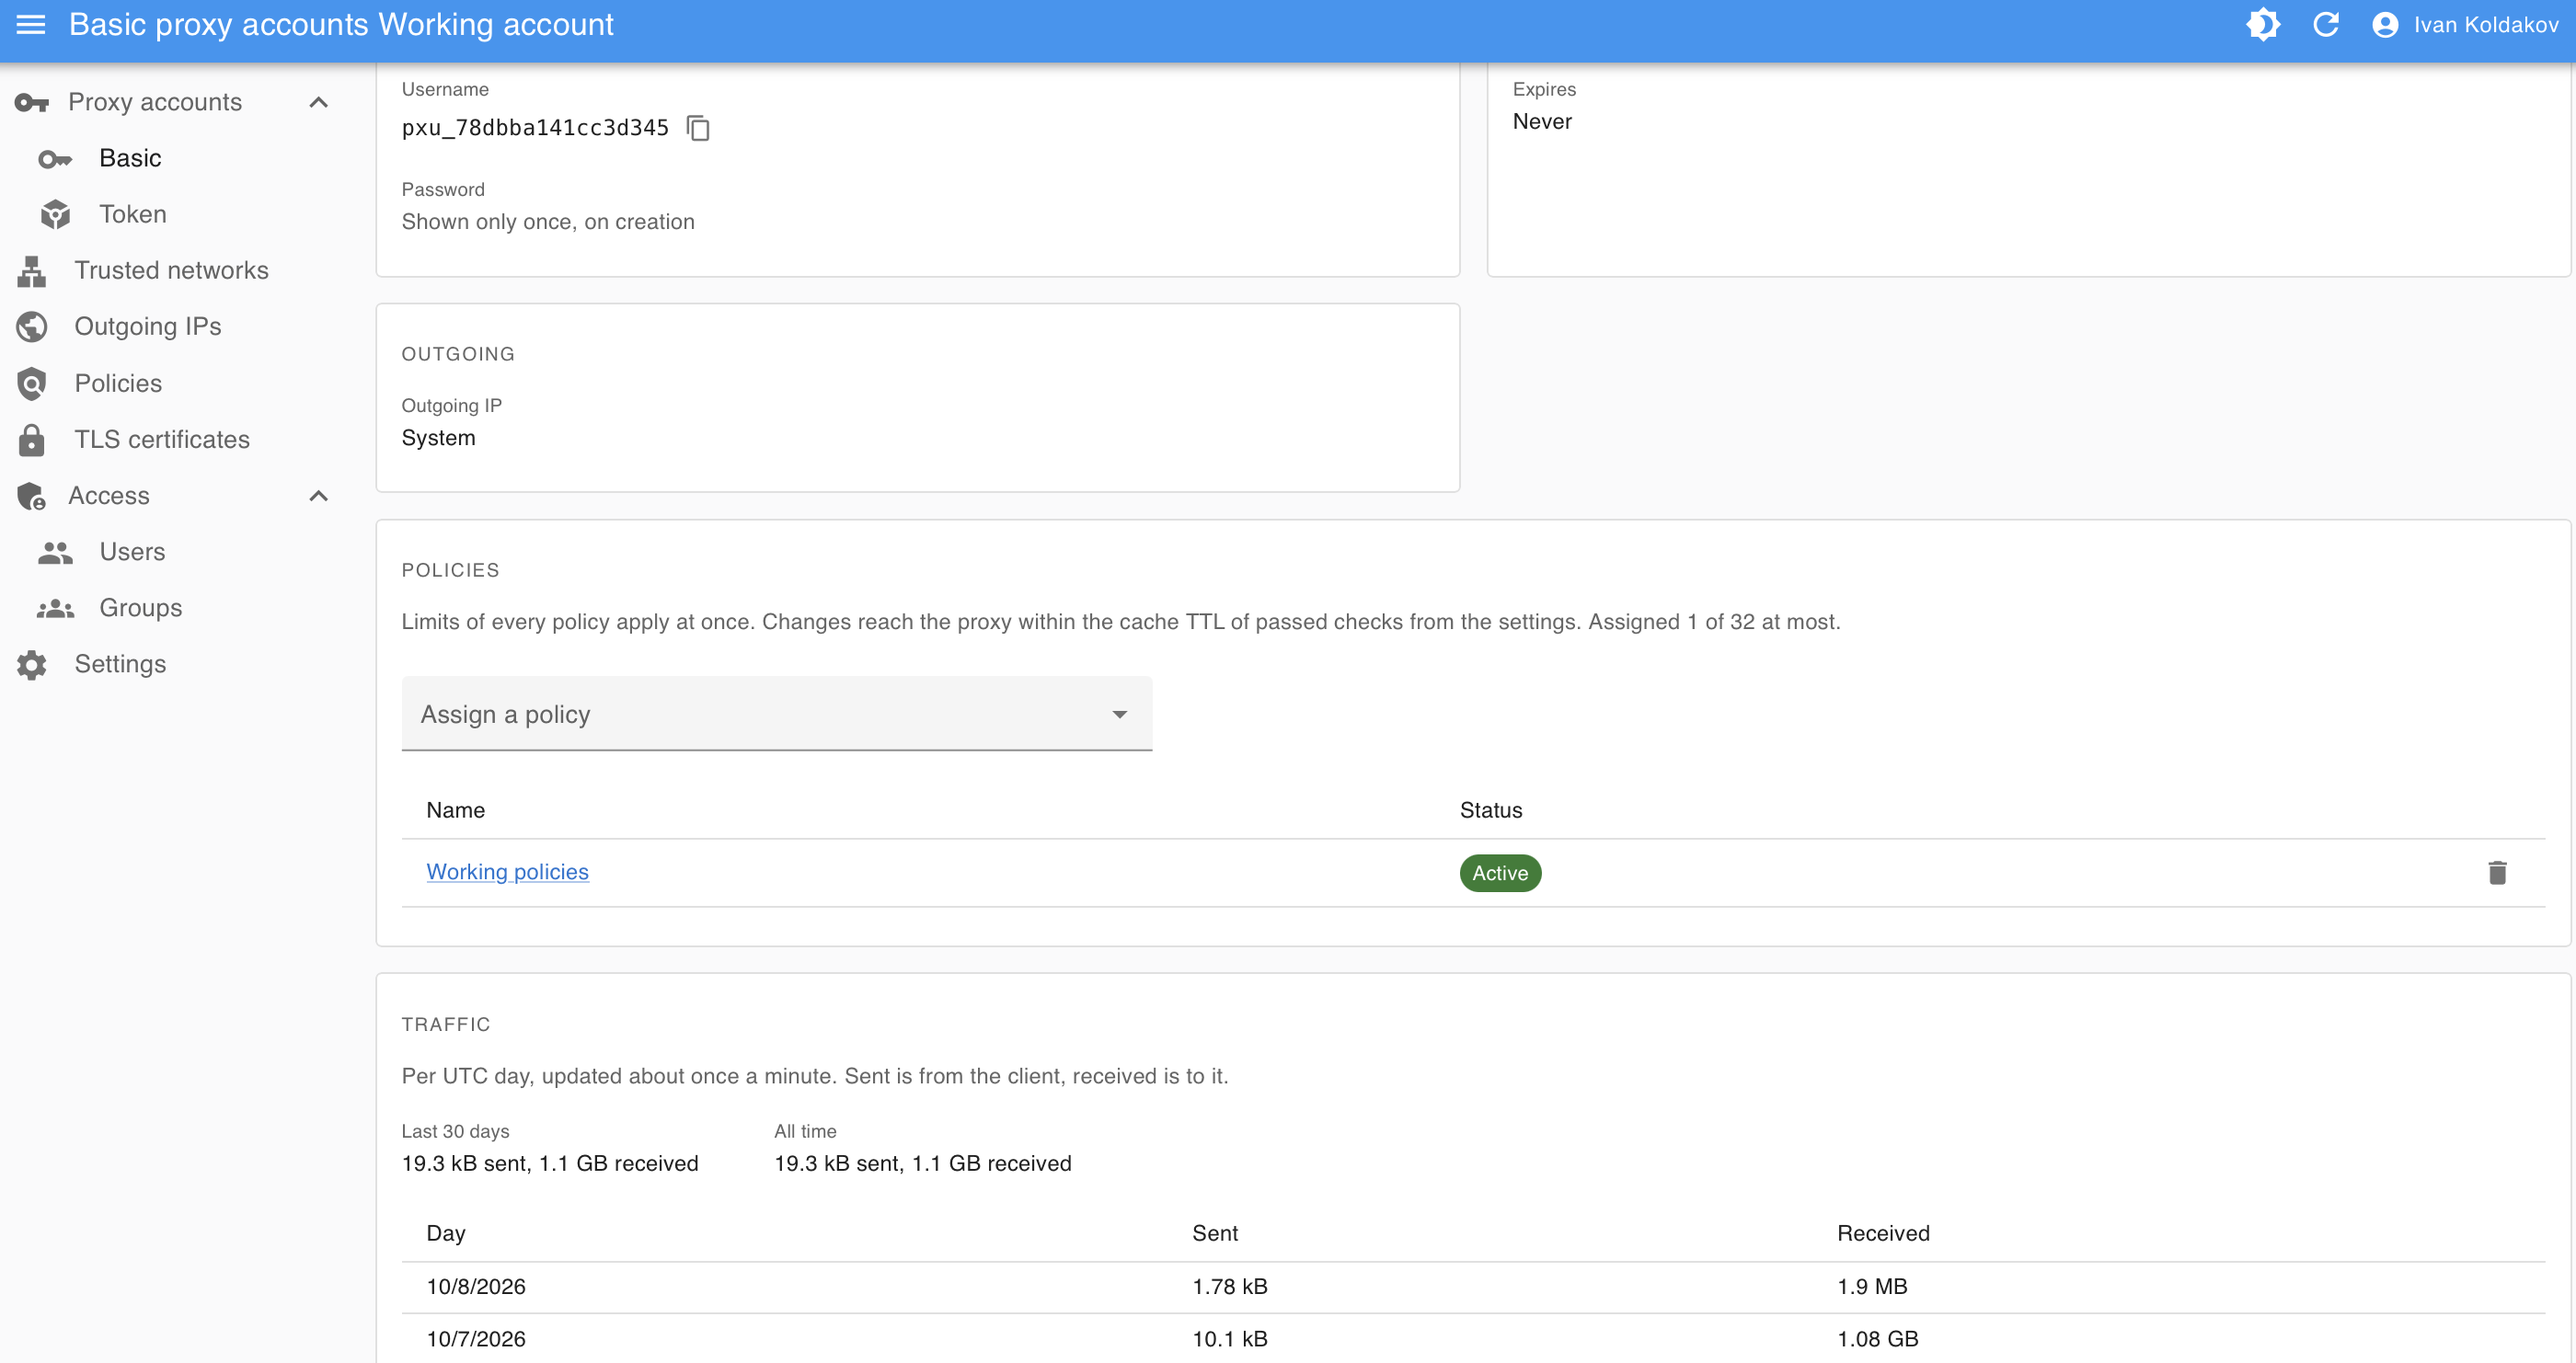
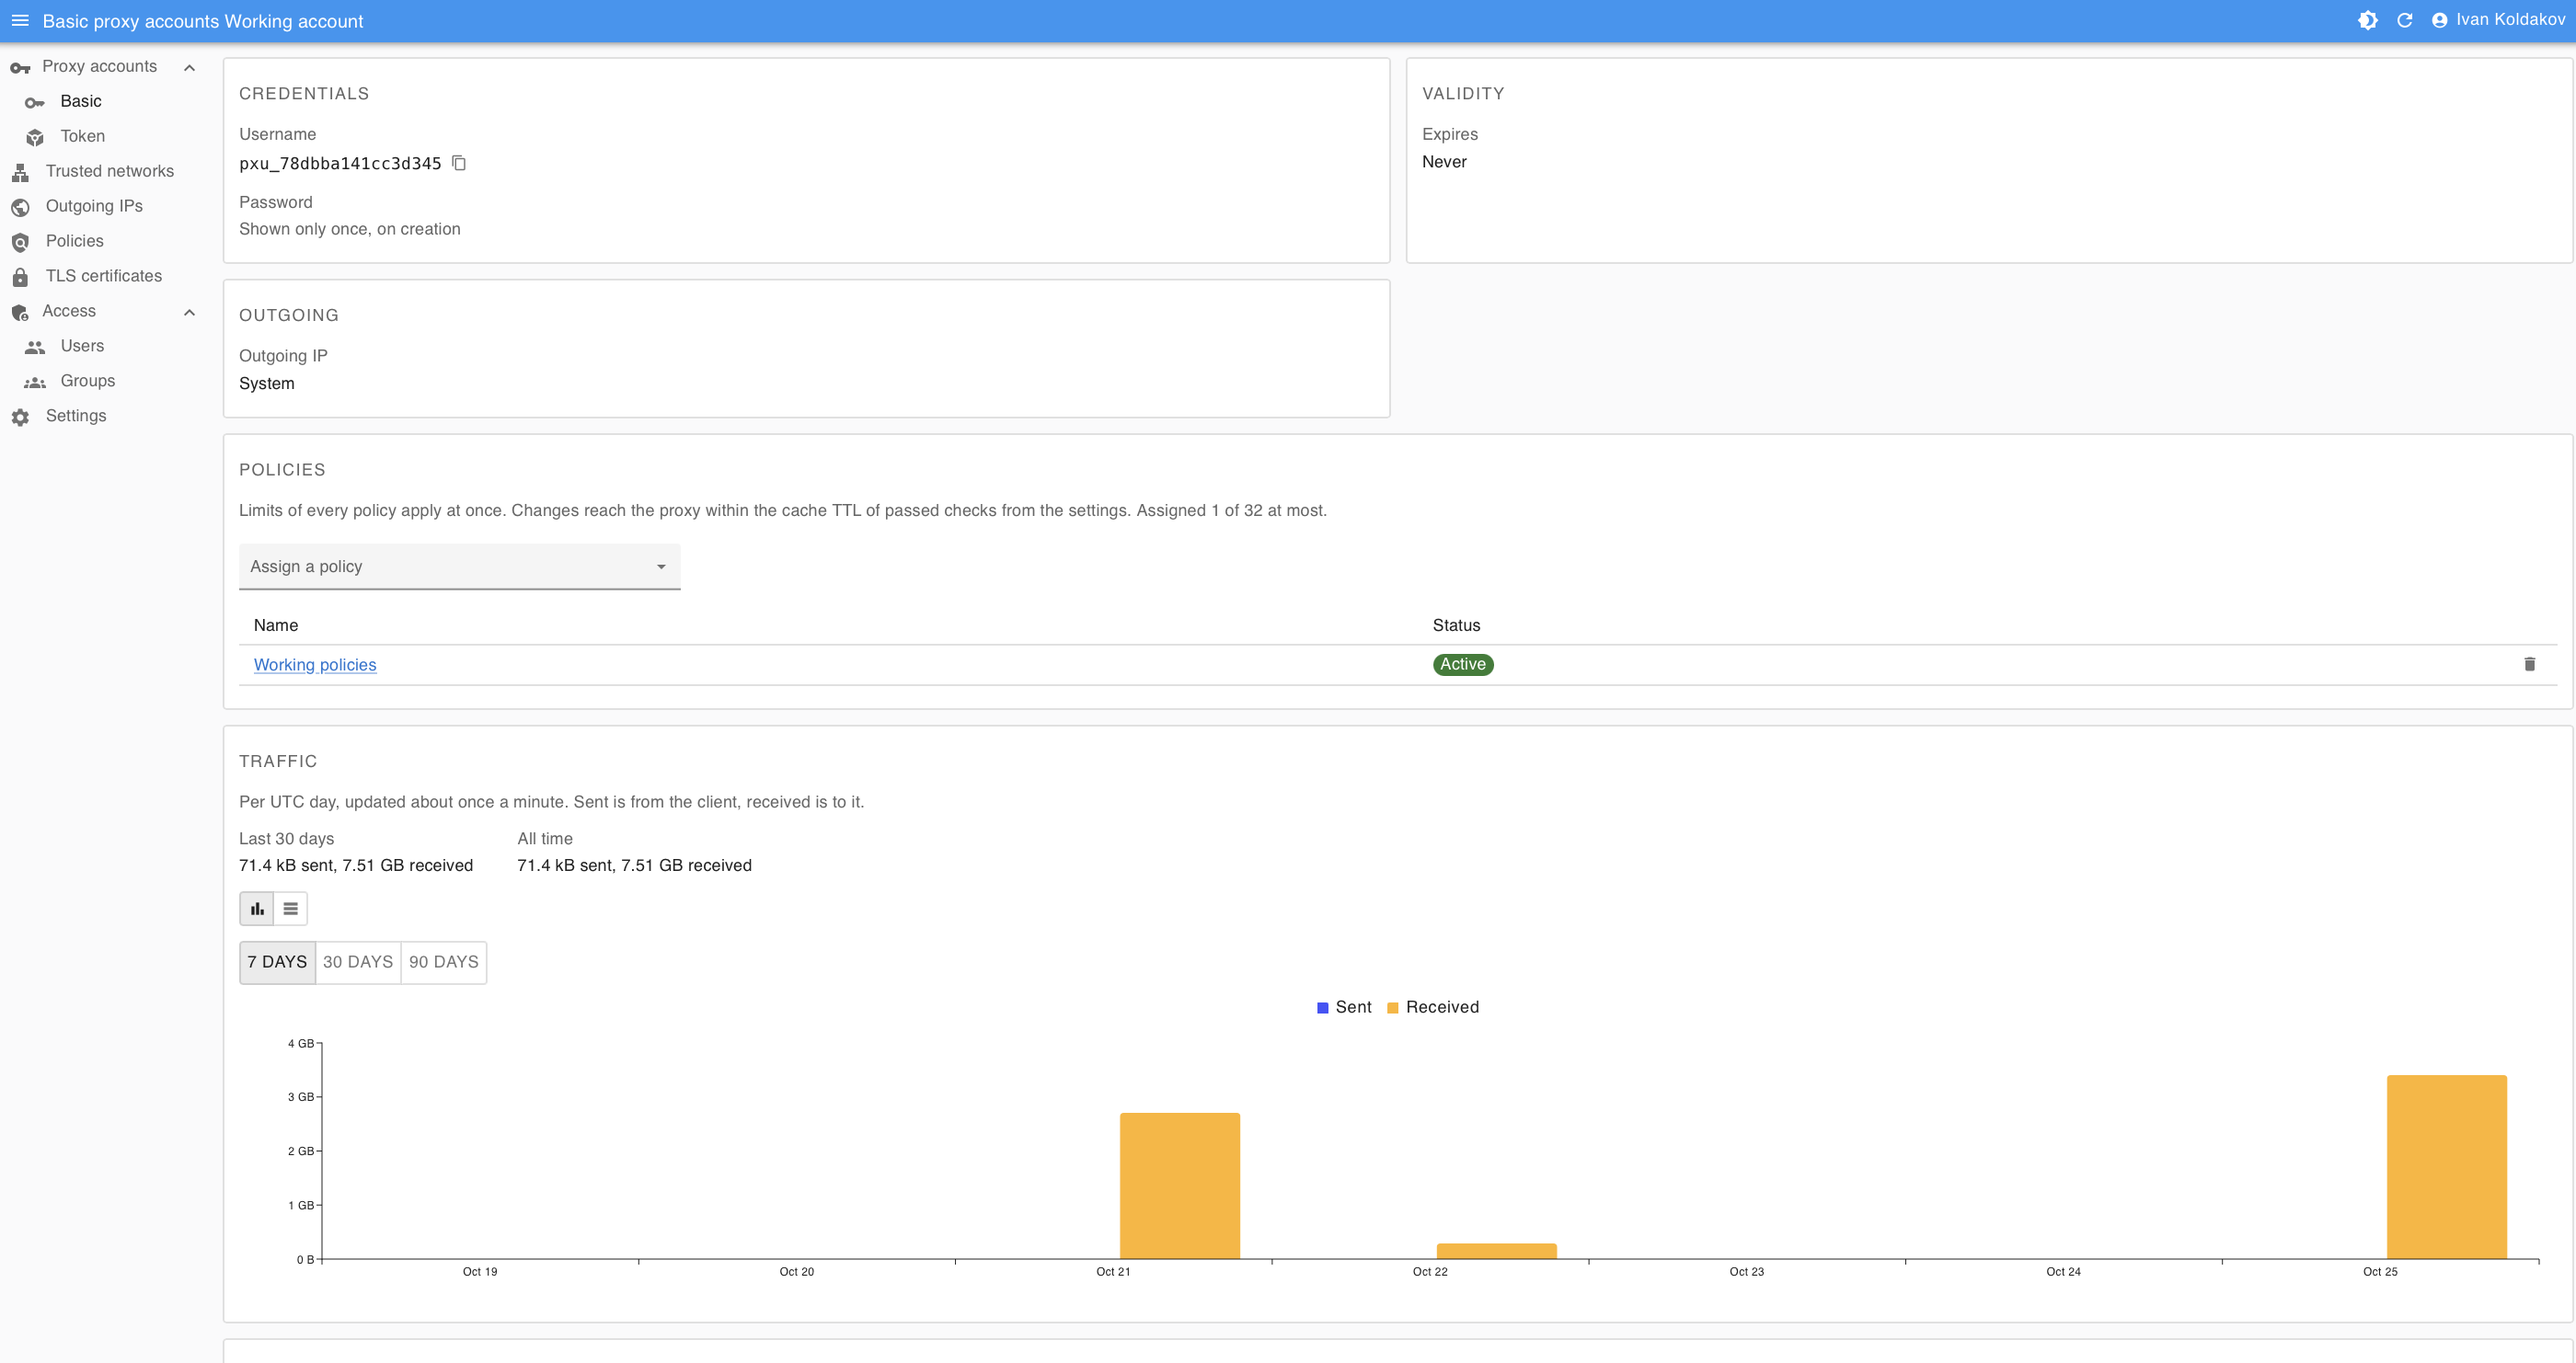
Release 0.2.0 with an upgrade guide from 0.1
Add docs/upgrading.md: Redis is required now (bundled in the image or
external via REDIS_URL), steps for the image, compose and source installs,
upgrading without downtime and going back. Move [Unreleased] to [0.2.0],
bump the version and update the account page screenshot.

diff --git a/docs/upgrading.md b/docs/upgrading.md
@@ -1,0 +1,75 @@
+# Upgrading
+
+Read the release's section in the [changelog](https://github.com/koldakov/proxium/blob/main/CHANGELOG.md) first:
+it lists every change a client or an installation may notice. Releases that need more than pulling the new version
+get a section here.
+
+## From 0.1 to 0.2
+
+0.2 shares every limit between proxy instances through Redis: connections, speed and traffic quotas. Several
+instances on one database now work as one proxy. Redis is required for that, like PostgreSQL.
+
+The database schema is the same as in 0.1.1: no migrations to wait for, and going back to 0.1.1 is just running it
+again.
+
+### What to check first
+
+- **Redis.** The Docker image runs its own when `REDIS_URL` isn't set, nothing to do. With your own Redis it must be
+  7.4 or newer, see [Supported versions](installation.md#supported-versions). Several containers on one database
+  need one Redis for all of them: with the bundled one each container counts limits alone.
+- **HTTP clients that check status codes.** The proxy's own refusals carry `Proxy-Status`, a 503 over limits that
+  can't be checked replaces a 500, a missing outgoing IP answers 500 instead of 502. Forwarded responses say
+  `Connection: close`, and requests with an unclear body end get 400. See the changelog for the full list.
+
+### Docker image
+
+```bash
+docker pull ikoldakov/proxium:0.2.0
+docker stop --time 40 proxium && docker rm proxium
+docker run -d --name proxium ... ikoldakov/proxium:0.2.0
+```
+
+Use the same `-p`, `-v` and `-e` as before. The bundled Redis starts with the container and keeps nothing on disk.
+
+With your own database add `-e REDIS_URL=...` and, if it's not in the URL, `-e REDIS_PASSWORD=...` before the
+upgrade, see [Own database, Redis and secrets](installation.md#own-database-redis-and-secrets).
+
+### Compose
+
+The compose example of 0.2 adds a `redis` service and `REDIS_URL` with `REDIS_PASSWORD` for both containers. Take
+them from [docker/compose.yaml](https://github.com/koldakov/proxium/blob/main/docker/compose.yaml) into your copy,
+pin the image to `ikoldakov/proxium:0.2.0` or keep `latest`, then:
+
+```bash
+docker compose -f docker/compose.yaml pull
+docker compose -f docker/compose.yaml up -d
+```
+
+Volumes keep their names: the database, the secrets and the admin's data stay.
+
+### From source
+
+Start Redis of a supported version, set `REDIS_URL` in `.env`, then:
+
+```bash
+git fetch --tags && git checkout v0.2.0
+uv sync
+uv run --env-file .env proxium-manage migrate
+```
+
+and restart the proxy and the API. Compare your `.env` with `.env.template`: new variables have working defaults,
+none has to be set.
+
+### Without downtime
+
+From 0.1.1 the new proxy can start next to the old one, see
+[Restart without downtime](proxy.md#restart-without-downtime). From 0.1.0 it's a plain restart: a 0.1.0 proxy
+doesn't share its ports.
+
+While both run, the 0.1.1 proxy counts its limits alone: a connection limit may let up to its value more in, a speed
+limit give up to its rate more, a quota let through what the old proxy hasn't written to the database. It lasts
+until the old proxy stops, up to `PROXY_GRACEFUL_TIMEOUT`.
+
+### Going back
+
+Run the 0.1.1 image or `git checkout v0.1.1` on the same database. Redis isn't used by it and may stay.

diff --git a/docs/installation.md b/docs/installation.md
@@ -60,14 +60,15 @@ lock of `proxium-manage migrate`. More on how the proxy handles Redis failures i
 One image runs everything: the proxy, the API, the admin UI, PostgreSQL and Redis. State lives in one volume.
 
 The image is `ikoldakov/proxium` on Docker Hub and `ghcr.io/koldakov/proxium` on GitHub, for amd64 and arm64.
-`latest` is the last release, a version like `0.1.0` pins it, `edge` is the current `main`, not released yet.
+`latest` is the last release, a version like `0.2.0` pins it, `edge` is the current `main`, not released yet.
 
 `edge` is for trying what's coming, not for production. It's built from every commit to `main`, and a commit may
 change what an installation needs before the release that documents how to upgrade. E.g. when Redis became required,
 an `edge` installation with its own database and no `REDIS_URL` started each container with a Redis of its own,
 which they don't share, and a source install without `REDIS_URL` stopped starting. Run a version tag in production.
 Before pulling a new `edge`, read `[Unreleased]` in the
-[changelog](https://github.com/koldakov/proxium/blob/main/CHANGELOG.md).
+[changelog](https://github.com/koldakov/proxium/blob/main/CHANGELOG.md). Moving between versions: see
+[Upgrading](upgrading.md).
 
 ### Quickstart
 

diff --git a/CHANGELOG.md b/CHANGELOG.md
@@ -7,6 +7,11 @@ The format is based on [Keep a Changelog](https://keepachangelog.com/en/1.1.0/),
 
 ## [Unreleased]
 
+## [0.2.0] - 2026-10-25
+
+Every limit is shared between proxy instances: run several on one database, and they work as one proxy. See
+[Upgrading](docs/upgrading.md#from-01-to-02).
+
 ### Added
 
 - Redis, `REDIS_URL`, `REDIS_PASSWORD`, `REDIS_KEY_PREFIX` and `REDIS_POOL_MAX_CONNECTIONS`: shared state of the
@@ -154,6 +159,7 @@ Your own proxy service in one `docker run`: accounts, policies, outgoing IPs and
 - Admin UI over HTTP or HTTPS with `ADMIN_TLS`: Let's Encrypt, own certificate files or an internal CA.
 - Optional superuser on first start with `SUPERUSER_CREATE`.
 
-[Unreleased]: https://github.com/koldakov/proxium/compare/v0.1.1...HEAD
+[Unreleased]: https://github.com/koldakov/proxium/compare/v0.2.0...HEAD
+[0.2.0]: https://github.com/koldakov/proxium/compare/v0.1.1...v0.2.0
 [0.1.1]: https://github.com/koldakov/proxium/compare/v0.1.0...v0.1.1
 [0.1.0]: https://github.com/koldakov/proxium/releases/tag/v0.1.0

diff --git a/README.md b/README.md
@@ -186,6 +186,7 @@ Report vulnerabilities privately, see [SECURITY.md](SECURITY.md).
 ## Documentation
 
 - [Installation](docs/installation.md): Docker, HTTPS for the admin UI, ports and IPs, compose, from source
+- [Upgrading](docs/upgrading.md): steps between versions
 - [Configuration](docs/configuration.md): environment variables
 - [Proxy](docs/proxy.md): protocols, TLS, trusted networks, outgoing IPs, policies, settings
 - [Admin UI](docs/admin.md): users, groups and permissions
